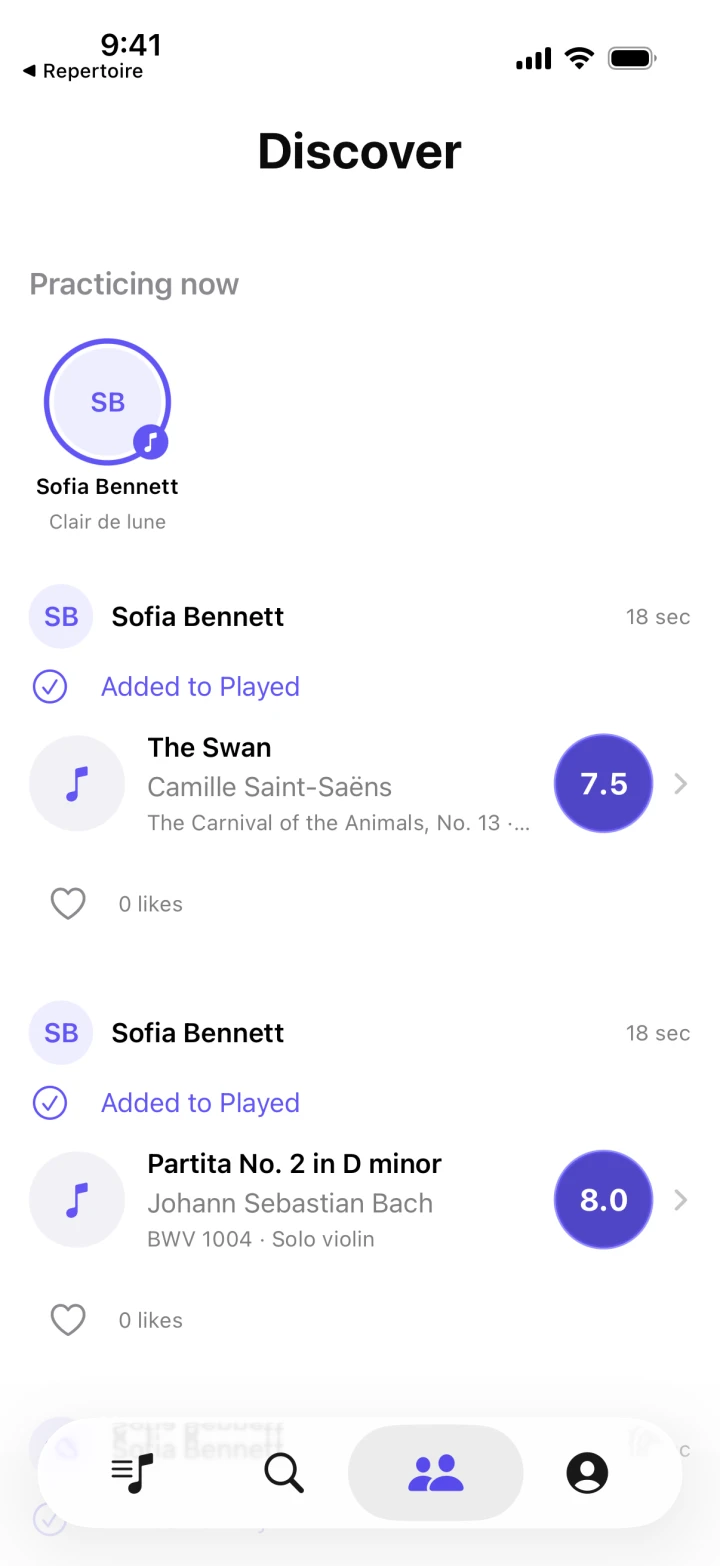
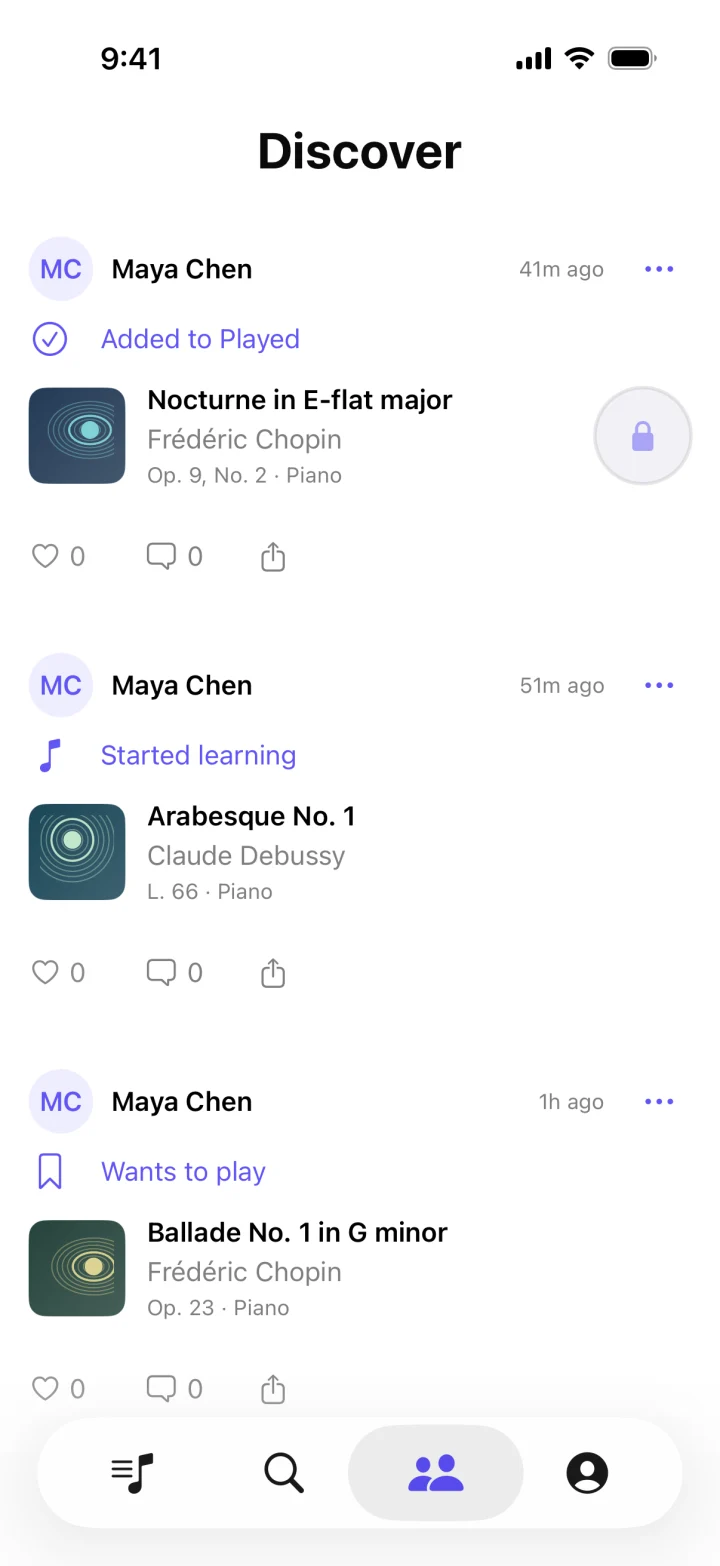
Preview Repertoire 1.0.2 on the website

diff --git a/index.html b/index.html
@@ -4,9 +4,9 @@
   <meta charset="utf-8">
   <meta name="viewport" content="width=device-width, initial-scale=1">
   <meta name="theme-color" content="#181813">
-  <meta name="description" content="Repertoire is a music journal for iPhone, iPad, and Android. Collect the pieces you play, track your practice, and find new music through other musicians.">
+  <meta name="description" content="Keep track of the music you play, log your practice, and discover new pieces. Preview sheet music playback and practice plans in Repertoire 1.0.2 for iPhone and iPad.">
   <meta property="og:title" content="Repertoire — Music is better when shared.">
-  <meta property="og:description" content="Your pieces, your practice, and the music you’ll play next.">
+  <meta property="og:description" content="Build your repertoire and get a first look at score playback and bar-by-bar practice plans for iPhone and iPad.">
   <meta property="og:image" content="https://www.getrepertoire.app/assets/piano-studio.webp">
   <meta property="og:url" content="https://www.getrepertoire.app/">
   <title>Repertoire — Music is better when shared.</title>
@@ -29,9 +29,8 @@
     <section class="hero" aria-labelledby="hero-title">
       <div class="hero-grid wrap">
         <div class="hero-copy">
-          <p class="kicker">For musicians, by musicians.</p>
           <h1 id="hero-title">Music is better<br> when <em>shared.</em></h1>
-          <p class="hero-intro">Build your personal repertoire, follow other musicians, and discover the pieces you’ll want to learn next.</p>
+          <p class="hero-intro">Keep track of the pieces you play, see how your practice adds up, and find your next piece through other musicians.</p>
           <div class="hero-actions">
             <a class="button button-light" href="https://apps.apple.com/us/app/repertoire-a-social-music-app/id6824277335">View on the App Store <span aria-hidden="true">↗</span></a>
             <a class="button" href="android.html">Get it for Android <span aria-hidden="true">↗</span></a>
@@ -39,26 +38,48 @@
         </div>
         <figure class="hero-device">
           <div class="phone">
-            <img src="assets/screens/repertoire.webp" alt="My Repertoire showing ranked pieces, enjoyment scores, and Played, Learning, and Want to Play tabs" width="720" height="1565" fetchpriority="high">
+            <img src="assets/screens/score.webp" alt="The iPhone practice screen showing sheet music for Clair de lune, a session timer, and practice tools" width="720" height="1565" fetchpriority="high">
           </div>
-          <figcaption>Preview of version 1.0.1</figcaption>
+          <figcaption>iOS 1.0.2 preview</figcaption>
         </figure>
       </div>
     </section>
 
     <section class="launch-note" aria-label="Update availability">
       <div class="wrap launch-note-inner">
-        <p><span class="availability-dot" aria-hidden="true"></span><strong>Repertoire is on the App Store and available as a direct Android download.</strong> The iPhone screens preview the upcoming 1.0.1 update.</p>
-        <a class="text-link" href="update.html">See what’s new <span aria-hidden="true">↗</span></a>
+        <p><strong>Coming to iPhone and iPad in 1.0.2.</strong> Play along with sheet music, set weekly practice goals, and get a bar-by-bar plan for your next performance.</p>
+        <a class="text-link" href="update.html">Preview 1.0.2 <span aria-hidden="true">↗</span></a>
       </div>
     </section>
 
     <section class="features wrap" id="features" aria-labelledby="features-title">
       <div class="section-intro">
         <h2 id="features-title">Make it <em>your repertoire.</em></h2>
-        <p>Keep track of what you’ve played, what you’re learning, and what you want to learn next.</p>
+        <p>Organize the pieces you know and make time for the ones you’re learning.</p>
       </div>
       <div class="feature-grid">
+        <article class="feature-card card-practice">
+          <div class="card-copy">
+            <p class="kicker">iOS 1.0.2 preview</p>
+            <h3>Practice with the score in front of you.</h3>
+            <p>Open an available score or import MusicXML. Play from any bar, loop a passage, and follow the cursor as the music plays. With a multi-part score, read your part and play along with the others.</p>
+            <a class="text-link" href="update.html#score">Explore score practice <span aria-hidden="true">↗</span></a>
+          </div>
+          <figure class="practice-stage">
+            <div class="score-frame"><img src="assets/screens/score-landscape.webp" alt="Landscape iPhone score practice, with sheet music and session controls" width="1180" height="543" loading="lazy"></div>
+          </figure>
+        </article>
+        <article class="feature-card card-cream">
+          <div class="card-copy">
+            <p class="kicker">iOS 1.0.2 preview</p>
+            <h3>Know what to practice next.</h3>
+            <p>Pick practice days for a weekly goal, or set a deadline and get a smart practice timeline with bars to work on each day.</p>
+            <a class="text-link" href="update.html#practice">See practice plans <span aria-hidden="true">↗</span></a>
+          </div>
+          <div class="card-stage">
+            <div class="phone"><img src="assets/screens/timeline.webp" alt="Smart practice goal showing upcoming dates, bar ranges, and session lengths" width="720" height="1565" loading="lazy"></div>
+          </div>
+        </article>
         <article class="feature-card card-sage">
           <div class="card-copy">
             <p class="kicker">Your repertoire</p>
@@ -69,40 +90,18 @@
             <div class="phone"><img src="assets/screens/repertoire.webp" alt="" width="720" height="1565" loading="lazy"></div>
           </div>
         </article>
-        <article class="feature-card card-lilac">
-          <div class="card-copy">
-            <p class="kicker">Search &amp; recommendations</p>
-            <h3>Find your next piece.</h3>
-            <p>Search by title, composer, or catalogue number. Get suggestions shaped by your instrument and the music you’ve saved.</p>
-          </div>
-          <div class="card-stage" aria-hidden="true">
-            <div class="phone"><img src="assets/screens/search.webp" alt="" width="720" height="1565" loading="lazy"></div>
-          </div>
-        </article>
-        <article class="feature-card card-practice">
-          <div class="card-copy">
-            <p class="kicker">Practice</p>
-            <h3>See the work<br>behind the music.</h3>
-            <p>Start a timer from your repertoire. When you finish, see how much time you’ve put into a piece and how your sessions have changed over time.</p>
-            <a class="text-link" href="update.html#practice">See practice in action <span aria-hidden="true">↗</span></a>
-          </div>
-          <div class="card-stage practice-stage" aria-hidden="true">
-            <div class="phone phone-secondary"><img src="assets/screens/timer.webp" alt="" width="720" height="1565" loading="lazy"></div>
-            <div class="phone phone-primary"><img src="assets/screens/history.webp" alt="" width="720" height="1565" loading="lazy"></div>
-          </div>
-        </article>
       </div>
     </section>
 
     <section class="social wrap" aria-labelledby="social-title">
       <div class="social-art">
-        <div class="phone"><img src="assets/screens/discover.webp" alt="Discover showing a followed musician’s current practice piece and recent repertoire updates" width="720" height="1565" loading="lazy"></div>
+        <div class="phone"><img src="assets/screens/discover.webp" alt="The Discover feed with recent repertoire updates from other musicians" width="720" height="1565" loading="lazy"></div>
       </div>
       <div class="social-copy">
         <p class="kicker">Discover</p>
         <h2 id="social-title">See what other<br>musicians <em>play.</em></h2>
-        <p>Follow musicians whose taste you share. See which pieces they’re learning, what they’ve enjoyed, and what they’re practicing right now.</p>
-        <a class="text-link" href="update.html#discover">How Discover works <span aria-hidden="true">↗</span></a>
+        <p>Follow musicians and see what they’re playing. Search for pieces by title, composer, or catalogue number, and get suggestions based on your instrument and the music you’ve saved.</p>
+        <a class="text-link" href="support.html#discover">How to unlock Discover <span aria-hidden="true">↗</span></a>
       </div>
     </section>
 

diff --git a/update.html b/update.html
@@ -4,7 +4,7 @@
   <meta charset="utf-8">
   <meta name="viewport" content="width=device-width, initial-scale=1">
   <meta name="theme-color" content="#f9f7f1">
-  <meta name="description" content="Explore Repertoire 1.0.1, the upcoming update for iPhone and iPad.">
+  <meta name="description" content="Preview Repertoire 1.0.2 for iPhone and iPad, with interactive sheet music, weekly and smart practice goals, recordings, and practice analytics.">
   <title>What’s new — Repertoire</title>
   <link rel="icon" href="assets/app-icon.png" type="image/png">
   <link rel="stylesheet" href="style.css">
@@ -20,39 +20,49 @@
   </header>
   <main class="wrap" id="main">
     <section class="update-hero" aria-labelledby="update-title">
-      <p class="kicker">Upcoming update · Version 1.0.1</p>
-      <h1 class="update-title" id="update-title">A closer look at<br><em>Repertoire.</em></h1>
-      <p>Explore the upcoming 1.0.1 build below. You can download Repertoire from the App Store today while 1.0.1 awaits approval.</p>
+      <p class="kicker">iOS 1.0.2 preview</p>
+      <h1 class="update-title" id="update-title">From the first bar<br><em>to the last.</em></h1>
+      <p>The next update for iPhone and iPad brings sheet music, practice plans, and recordings into the same session. The current release is available on the App Store.</p>
       <a class="button button-green" href="https://apps.apple.com/us/app/repertoire-a-social-music-app/id6824277335">View on the App Store <span aria-hidden="true">↗</span></a>
     </section>
     <div class="update-grid">
-      <article class="update-card">
+      <article class="feature-card card-practice" id="score">
         <div class="card-copy">
-          <h3>Rank the pieces you’ve played.</h3>
-          <p>Compare pieces by how much you enjoyed playing them. Once you’ve ranked five, you’ll see personal enjoyment scores that reflect the order you chose.</p>
+          <h2>Play along with your score.</h2>
+          <p>Open a score from the catalogue where available, or import your own MusicXML or compressed MusicXML (.mxl) file. Turn your device sideways for more room, start playback from a selected bar, or loop a passage. For multi-part scores, you can show the part you’re practicing, toggle accompaniment, and adjust each part’s volume.</p>
         </div>
-        <div class="phone"><img src="assets/screens/repertoire.webp" alt="A list of played pieces ranked by enjoyment" width="720" height="1565" loading="lazy"></div>
+        <figure class="practice-stage">
+          <div class="score-frame"><img src="assets/screens/score-landscape.webp" alt="Landscape playback of Clair de lune, with the cursor in the highlighted bar" width="1180" height="543" loading="lazy"></div>
+        </figure>
       </article>
-      <article class="update-card">
+      <article class="update-card card-cream" id="practice">
         <div class="card-copy">
-          <h3>Find more music to learn.</h3>
-          <p>Try a title, composer, or catalogue number such as BWV 846. When you aren’t searching, Repertoire suggests pieces based on what you play and save.</p>
+          <h2>Give your practice a plan.</h2>
+          <p>Choose practice days and set reminders with a weekly goal. For a recital or other deadline, a smart goal builds a bar-by-bar schedule around your practice time. Start from a later bar if you’ve already learned the opening, or build separate timelines for multiple parts.</p>
         </div>
-        <div class="phone"><img src="assets/screens/search.webp" alt="Search with a personalized list of recommended compositions" width="720" height="1565" loading="lazy"></div>
+        <div class="phone"><img src="assets/screens/timeline.webp" alt="Smart practice timeline for Clair de lune showing when and which bars to practice" width="720" height="1565" loading="lazy"></div>
       </article>
-      <article class="update-card" id="practice">
+      <article class="update-card card-sage">
         <div class="card-copy">
-          <h3>Build a practice history.</h3>
-          <p>Time a session, pause when you need a break, and save when you’re done. Piece details show your total time and up to ten recent sessions.</p>
+          <h2>Hear how your practice changes.</h2>
+          <p>Time a session, use a metronome, or tune supported instruments. Record takes to listen back later and save the bars you covered. Your practice history and analytics show how your time adds up, and completed sessions earn XP.</p>
         </div>
-        <div class="phone"><img src="assets/screens/history.webp" alt="Clair de lune details with total practice time and a chart of recent sessions" width="720" height="1565" loading="lazy"></div>
+        <div class="phone"><img src="assets/screens/score.webp" alt="Clair de lune in a timed practice session with sheet music and recording controls" width="720" height="1565" loading="lazy"></div>
+      </article>
+      <article class="update-card card-lilac">
+        <div class="card-copy">
+          <h2>Find more music to learn.</h2>
+          <p>Search by title, composer, or catalogue number such as BWV 846. Repertoire suggests pieces based on what you play and save.</p>
+        </div>
+        <div class="phone"><img src="assets/screens/search.webp" alt="Search showing recommended pieces by Chopin, Beethoven, and other composers" width="720" height="1565" loading="lazy"></div>
       </article>
       <article class="update-card" id="discover">
         <div class="card-copy">
-          <h3>Discover what others play.</h3>
-          <p>See what musicians you follow have saved, enjoyed, or started practicing. To unlock the Discover feed, invite a new musician who signs up with your code.</p>
+          <h2>Practice with other musicians.</h2>
+          <p>See who’s practicing in Discover, send encouragement, or invite a musician to practice alongside you. Share a recording when you publish a practice post.</p>
+          <a class="text-link" href="support.html#discover">How to unlock Discover <span aria-hidden="true">↗</span></a>
         </div>
-        <div class="phone"><img src="assets/screens/discover.webp" alt="Discover feed with a musician’s current practice status and played pieces" width="720" height="1565" loading="lazy"></div>
+        <div class="phone"><img src="assets/screens/discover.webp" alt="Discover showing recent pieces added by musicians you follow" width="720" height="1565" loading="lazy"></div>
       </article>
     </div>
   </main>

diff --git a/style.css b/style.css
@@ -87,44 +87,44 @@ em { font-weight: 500; }
 .hero-intro { color: #f3e9d8; max-width: 395px; font-size: 1.07rem; }
 .hero-actions { display: flex; flex-wrap: wrap; gap: 10px 24px; align-items: center; margin-top: 29px; }
 .hero-device { justify-self: center; text-align: center; width: min(100%, 256px); }
-.phone {
+.phone, .score-frame {
   width: 100%;
   padding: 5px;
   background: #131614;
   border: 1px solid #797a70;
-  border-radius: 15% / 7%;
   box-shadow: 0 24px 58px #15171152, inset 0 0 0 1px #dfdcd647;
 }
+.phone { border-radius: 15% / 7%; }
 .phone img { width: 100%; height: auto; border-radius: 14% / 6.5%; }
 .hero-device figcaption { margin-top: 18px; color: var(--cream); font-size: .72rem; font-weight: 600; text-shadow: 0 1px 8px #000; }
 .launch-note { background: #e6ebdf; }
 .launch-note-inner { min-height: 72px; display: flex; align-items: center; justify-content: space-between; gap: 15px 25px; padding-block: 10px; }
 .launch-note p { color: #33483b; font-size: .88rem; }
 .launch-note a { white-space: nowrap; }
-.availability-dot { display: inline-block; width: 8px; height: 8px; background: #37664c; border-radius: 50%; margin-right: 8px; }
 .features { padding-block: 100px 0; }
 .section-intro { display: grid; grid-template-columns: 1.45fr .55fr; gap: 40px; align-items: end; margin-bottom: 39px; }
 .section-intro h2, .social h2, .download h2 { font-size: clamp(3rem, 6.3vw, 6.1rem); }
 .section-intro p, .social-copy > p:not(.kicker) { color: var(--muted); max-width: 350px; padding-bottom: 4px; }
 .feature-grid { display: grid; grid-template-columns: repeat(2, minmax(0, 1fr)); gap: 18px; }
 .feature-card { position: relative; display: flex; flex-direction: column; min-width: 0; overflow: hidden; border-radius: 14px; }
-.card-sage { background: #e2e9de; }
-.card-lilac { background: #e9e4ef; }
+.card-sage, .update-card.card-sage { background: #e2e9de; }
+.card-lilac, .update-card.card-lilac { background: #e9e4ef; }
+.card-cream, .update-card.card-cream { background: #efe3d2; }
 .card-copy { padding: 35px 38px 0; }
-.card-copy h3 { font-size: clamp(2.6rem, 4.2vw, 4.3rem); margin-block: 12px 11px; }
+.card-copy :is(h2, h3) { font-size: clamp(2.6rem, 4.2vw, 4.3rem); margin-block: 12px 11px; }
 .card-copy > p:not(.kicker) { max-width: 370px; color: var(--muted); }
+.card-copy .text-link { margin-top: 8px; }
 .card-stage { flex: 1; min-height: 290px; position: relative; margin-top: 25px; }
 .card-stage .phone { position: absolute; left: 50%; top: 12px; width: min(53%, 260px); transform: translateX(-50%); }
 .card-sage .card-stage .phone { transform: translateX(-50%) rotate(-6deg); }
-.card-lilac .card-stage .phone { transform: translateX(-50%) rotate(5deg); }
-.card-practice { grid-column: 1 / -1; display: grid; grid-template-columns: .94fr 1.06fr; min-height: 385px; align-items: center; background: #263c33; color: var(--cream); }
+.card-cream .card-stage .phone { transform: translateX(-50%) rotate(5deg); }
+.card-practice { grid-column: 1 / -1; display: grid; grid-template-columns: .86fr 1.14fr; min-height: 385px; align-items: center; background: #263c33; color: var(--cream); }
 .card-practice .card-copy { padding: 40px 38px; }
 .card-practice .kicker { color: var(--gold); }
-.card-practice .card-copy > p:not(.kicker) { color: #e3eadc; margin-bottom: 14px; }
-.practice-stage { align-self: stretch; margin: 0; }
-.practice-stage .phone { width: min(45%, 244px); }
-.practice-stage .phone-secondary { left: 37%; top: 52px; transform: translateX(-50%) rotate(-9deg); }
-.practice-stage .phone-primary { left: 63%; top: 30px; transform: translateX(-50%) rotate(7deg); }
+.card-practice .card-copy > p:not(.kicker) { color: #e3eadc; }
+.practice-stage { padding: 36px 44px 36px 0; }
+.score-frame { border-radius: 6% / 13%; }
+.score-frame img { width: 100%; height: auto; border-radius: 5% / 11%; }
 .social { display: grid; grid-template-columns: 1fr 1fr; gap: 8%; align-items: center; padding-block: 103px; }
 .social-art { position: relative; display: grid; place-items: center; min-height: 420px; border-radius: 14px; overflow: hidden; background: radial-gradient(ellipse at 35% 50%, #f7e8ca, #e8d5ba); }
 .social-art .phone { width: min(55%, 230px); position: absolute; top: 32px; transform: rotate(-5deg); }
@@ -164,9 +164,6 @@ em { font-weight: 500; }
 .update-grid { display: grid; grid-template-columns: repeat(2, minmax(0, 1fr)); gap: 24px; padding-bottom: 75px; }
 .update-card { display: grid; grid-template-rows: auto 1fr; background: #ebe7df; border-radius: 14px; overflow: hidden; }
 .update-card .phone { width: min(68%, 285px); margin: 22px auto 35px; align-self: end; }
-.update-card:nth-child(2) { background: #e9e4ef; }
-.update-card:nth-child(3) { background: #e2e9de; }
-.update-card:nth-child(4) { background: #efe3d2; }
 @media (max-width: 980px) {
   .wrap { width: calc(100% - 64px); }
   .hero-grid { grid-template-columns: 1.2fr .8fr; min-height: 570px; }
@@ -197,7 +194,7 @@ em { font-weight: 500; }
   .card-stage .phone { width: min(56%, 210px); }
   .card-practice { grid-template-columns: 1fr; }
   .card-practice .card-copy { padding: 25px 22px 0; }
-  .practice-stage .phone { width: min(45%, 200px); }
+  .practice-stage { padding: 22px; }
   .social { grid-template-columns: 1fr; padding-block: 59px; gap: 23px; }
   .social-copy { grid-row: 1; }
   .social-art { min-height: 310px; }
@@ -206,6 +203,7 @@ em { font-weight: 500; }
   .footer-links { order: 3; width: 100%; gap: 20px; }
   .info-page { padding-bottom: 55px; }
   .update-hero { padding-block: 32px 38px; }
+  .update-title { font-size: clamp(2.75rem, 11vw, 4rem); }
   .update-grid { padding-bottom: 45px; }
 }
 @media (prefers-reduced-motion: reduce) {

diff --git a/privacy.html b/privacy.html
@@ -28,7 +28,7 @@
       <main class="info-page" id="main">
         <a class="back-link" href="index.html"><span aria-hidden="true">←</span> Back to home</a>
         <h1>Privacy Policy</h1>
-        <p class="updated">Last updated <time datetime="2026-11-11">November 11, 2026</time></p>
+        <p class="updated">Last updated <time datetime="2026-11-15">November 15, 2026</time></p>
         <p class="page-intro">This policy covers the Repertoire apps for iPhone, iPad, and Android, their hosted service, and this website.</p>
 
         <section class="info-section" aria-labelledby="data">
@@ -39,6 +39,12 @@
             <li><strong>Social activity.</strong> We store follows, likes, repertoire updates, and invite code redemptions to provide the feed and manage access to Discover. During practice, the app sends the current piece and timer status so eligible followers can see that you’re playing.</li>
             <li><strong>Diagnostics and support.</strong> The service records aggregate request and database metrics to help troubleshoot performance. When you email support, we use your email address and the information you share to respond to your request.</li>
           </ul>
+        </section>
+
+        <section class="info-section" aria-labelledby="practice-data">
+          <h2 id="practice-data">Practice data in iOS 1.0.2</h2>
+          <p>Repertoire stores saved start and end bars and practice goals with your account. The app uses your microphone when you use the tuner or record a practice take. Takes stay on your device unless you share them. If you attach a take to a practice post, Repertoire uploads the selected recording for people who can view the post.</p>
+          <p>Imported MusicXML files are stored on your device. If you request a smart practice goal, Repertoire sends your goal settings, instrument, selected repertoire and difficulty information, practice totals, and a text transcription of the score when available to DeepSeek to generate your plan. Repertoire stores the generated plan and submitted score text with your account. Weekly goals use your chosen practice days without calling DeepSeek.</p>
         </section>
 
         <section class="info-section" aria-labelledby="visibility">
@@ -57,7 +63,7 @@
         <section class="info-section" aria-labelledby="retention">
           <h2 id="retention">Retention and your choices</h2>
           <p>We keep account and activity records while your account is active so your repertoire remains available when you sign in. You can edit your profile, remove saved pieces, unfollow musicians, or undo likes in the app.</p>
-          <p>To request a copy, correction, or deletion of your data, email <a href="mailto:cxy20052008@gmail.com?subject=Repertoire%20privacy%20request">cxy20052008@gmail.com</a> from the address associated with your account. We may verify that you own the account before acting. Deleting your account removes your profile, saved repertoire, practice history, and associated social activity from the active service. Copies may remain in backups until those backups are removed.</p>
+          <p>In iOS 1.0.2, you can delete your account from <strong>Profile → Settings → Delete profile</strong>. To request a copy, correction, or deletion of your data, email <a href="mailto:cxy20052008@gmail.com?subject=Repertoire%20privacy%20request">cxy20052008@gmail.com</a> from the address associated with your account. We may verify that you own the account before acting. Deleting your account removes your profile, saved repertoire, practice history, practice goals, and associated social activity from the active service. Copies may remain in backups until those backups are removed.</p>
         </section>
       </main>
 

diff --git a/support.html b/support.html
@@ -45,13 +45,21 @@
             <summary>How do I make my repertoire private?</summary>
             <p>Open <strong>Profile → Edit profile</strong>, turn off <strong>Public repertoire</strong>, and tap <strong>Save</strong>. Other musicians can still see your profile and follow connections.</p>
           </details>
-          <details>
+          <details id="discover">
             <summary>How do I unlock Discover?</summary>
             <p>Open <strong>Discover</strong> to find your invite code. Once a new musician signs up with your code or enters it in their account within 14 days of signing up, tap <strong>Check invite status</strong>.</p>
           </details>
           <details>
             <summary>How do I delete my account?</summary>
-            <p>Email <a href="mailto:cxy20052008@gmail.com?subject=Repertoire%20account%20deletion">cxy20052008@gmail.com</a> from the address associated with your Repertoire account and request deletion. See the <a href="privacy.html#retention">Privacy Policy</a> for what happens to your data.</p>
+            <p>In iOS 1.0.2, open <strong>Profile → Settings → Delete profile</strong> and confirm. You can also email <a href="mailto:cxy20052008@gmail.com?subject=Repertoire%20account%20deletion">cxy20052008@gmail.com</a> from the address associated with your account. See the <a href="privacy.html#retention">Privacy Policy</a> for what happens to your data.</p>
+          </details>
+          <details>
+            <summary>How do I add sheet music in iOS 1.0.2?</summary>
+            <p>Start a practice session for the piece. If the practice screen says <strong>No sheet music yet</strong>, tap <strong>Import MusicXML</strong> and choose a MusicXML (.musicxml or .xml) or compressed MusicXML (.mxl) file from Files. You can also choose <strong>Practice without sheet music</strong>.</p>
+          </details>
+          <details>
+            <summary>Where are my practice recordings in iOS 1.0.2?</summary>
+            <p>Open <strong>Your recordings</strong> from the waveform button during practice, or open the piece’s details. Takes stay on the device where you record them. You can share a take or attach it when you publish a practice post.</p>
           </details>
         </section>
       </main>
